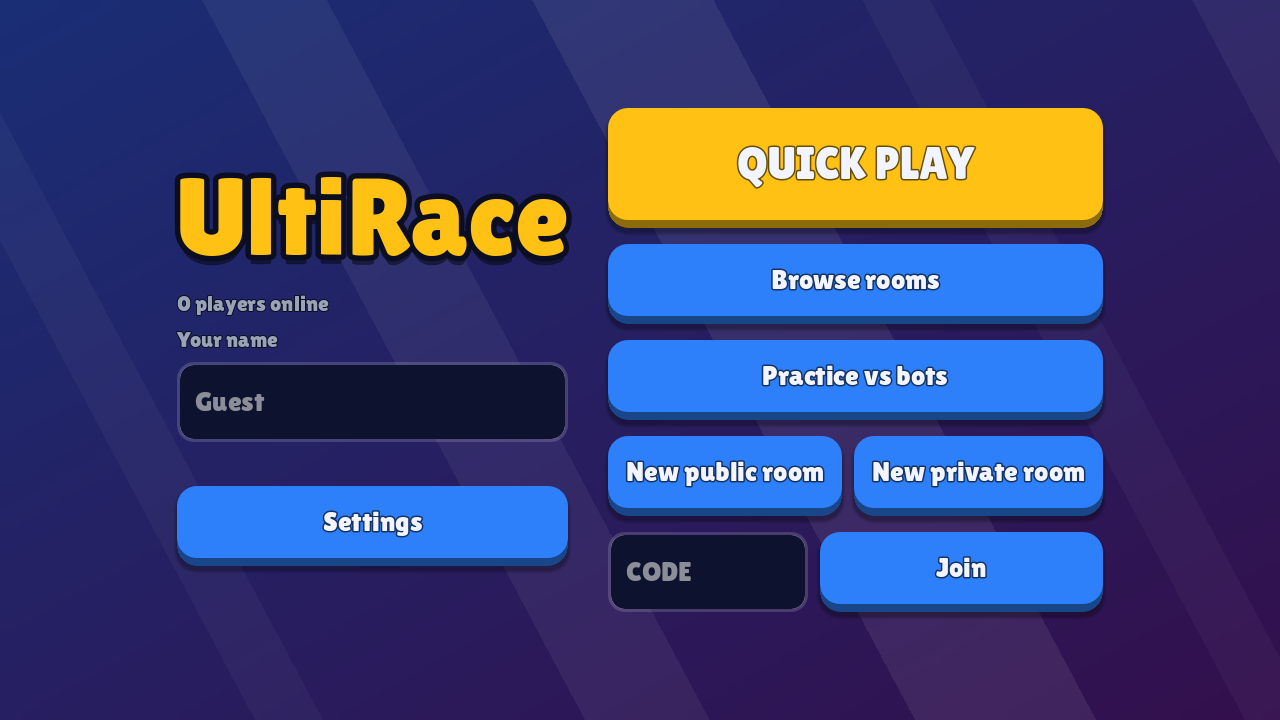
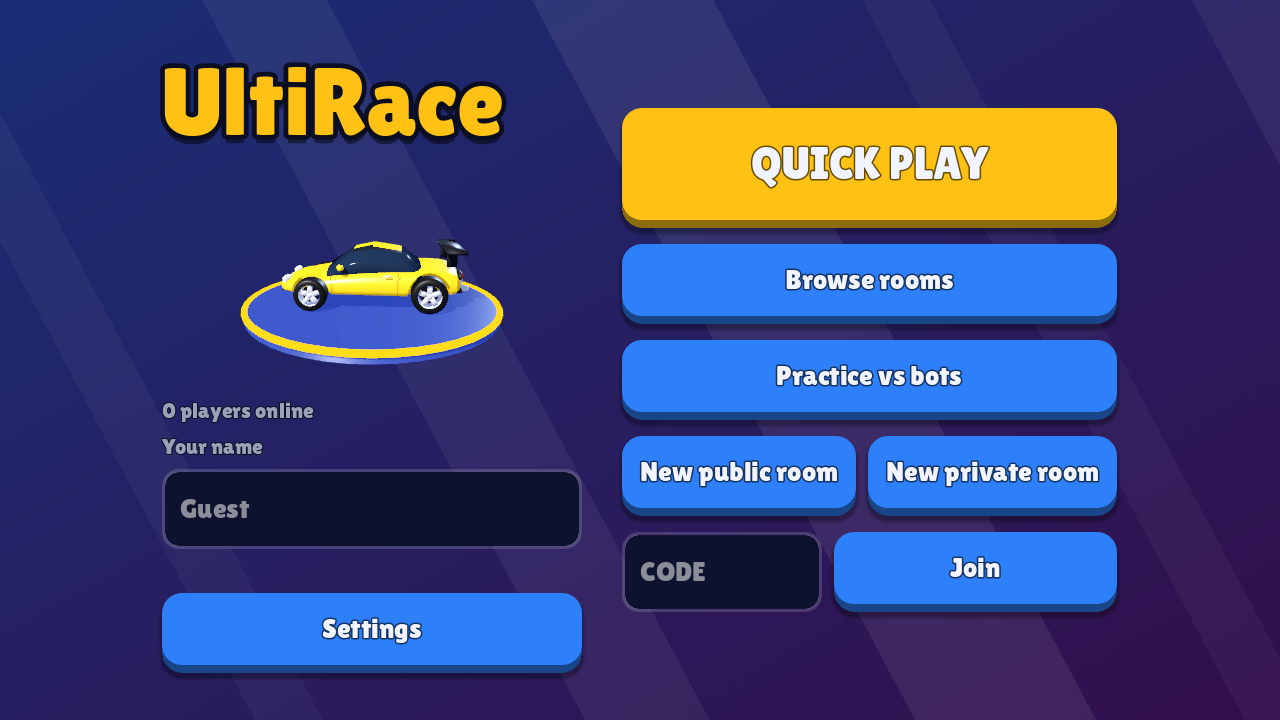
A2: Home showroom, punchy countdown, podium results with confetti
- Home: showroom cycling through the cars (Showroom defers until in tree)
- HUD: countdown numbers punch in, coloured 3 red → 2 orange → 1 yellow → GO! green
- Results: medal colours, staggered rows, YOU WON!/PODIUM title,
  confetti for podium finishes; tests

diff --git a/docs/PROGRESS.md b/docs/PROGRESS.md
@@ -225,4 +225,7 @@ animated buttons and transitions, 3D car showroom on Home/Select, juicy countdow
 - [x] Settings: chunky code-drawn switches, yellow sliders, rows on cards, styled dropdown.
 - [x] Vehicle Select: 3D showroom (real car model spinning on a platform, drop-in bounce on pick;
       renders only while visible), 2-column car cards, name/ULT/stats under the model.
-- [ ] Home showroom, juicy countdown/results, human approval.
+- [x] Home showroom (cycles through the cars), countdown punch-in (3 red → 2 orange → 1 yellow →
+      GO! green), results: podium medal colours, staggered rows, "YOU WON!"/"P2 — PODIUM!" title,
+      confetti on podium finishes (tested).
+- [ ] Human approval of A2 (HUMAN_TODO #19), juicy countdown/results, human approval.

diff --git a/docs/HUMAN_TODO.md b/docs/HUMAN_TODO.md
@@ -112,6 +112,10 @@ After 1–3: run `scripts/preflight.sh` (or tell Claude to continue).
     Settings for abuse reports / help? (Set `SUPPORT_CONTACT` in `godot/src/app/screens/SettingsScreen.gd`
     or tell Claude.)
 
+19. [ ] **Review the A2 menus** on the phone (Home, Settings, Choose your car with the 3D
+    showroom, countdown, results with confetti) or `docs/screenshots/a2_*.png`. Say what to
+    change (font, colours, button style, animations).
+
 18. [ ] **Review the A3 track look** on the phone or in `docs/screenshots/a3_*.png`: textured
     asphalt, lane lines, steel guard rails, street lamps, tree trunks, clouds, billboards (day
     maps). Say what to change (colours, density, rail height, anything that looks off).
